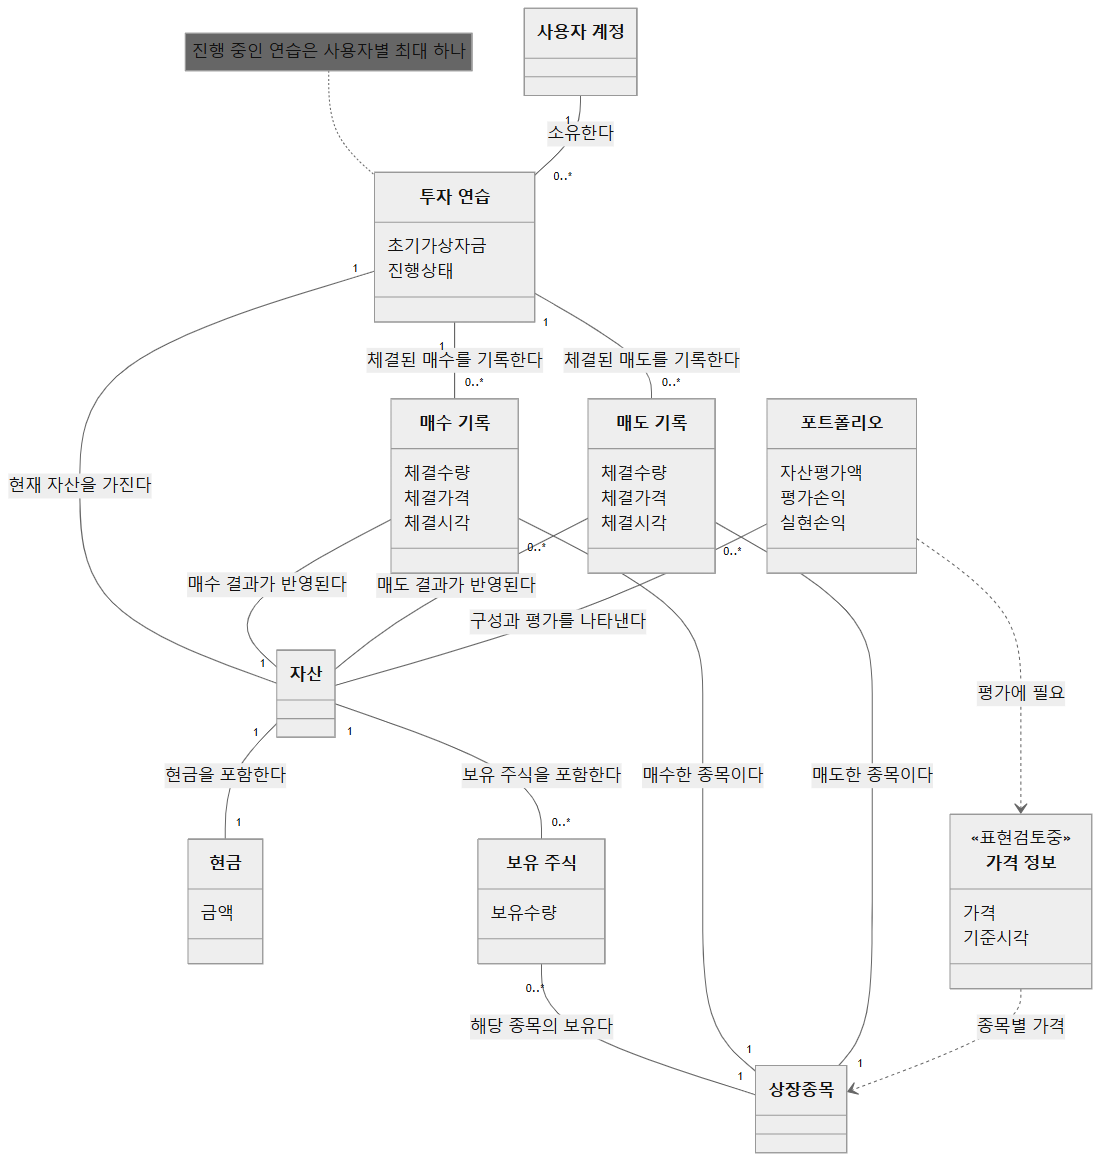
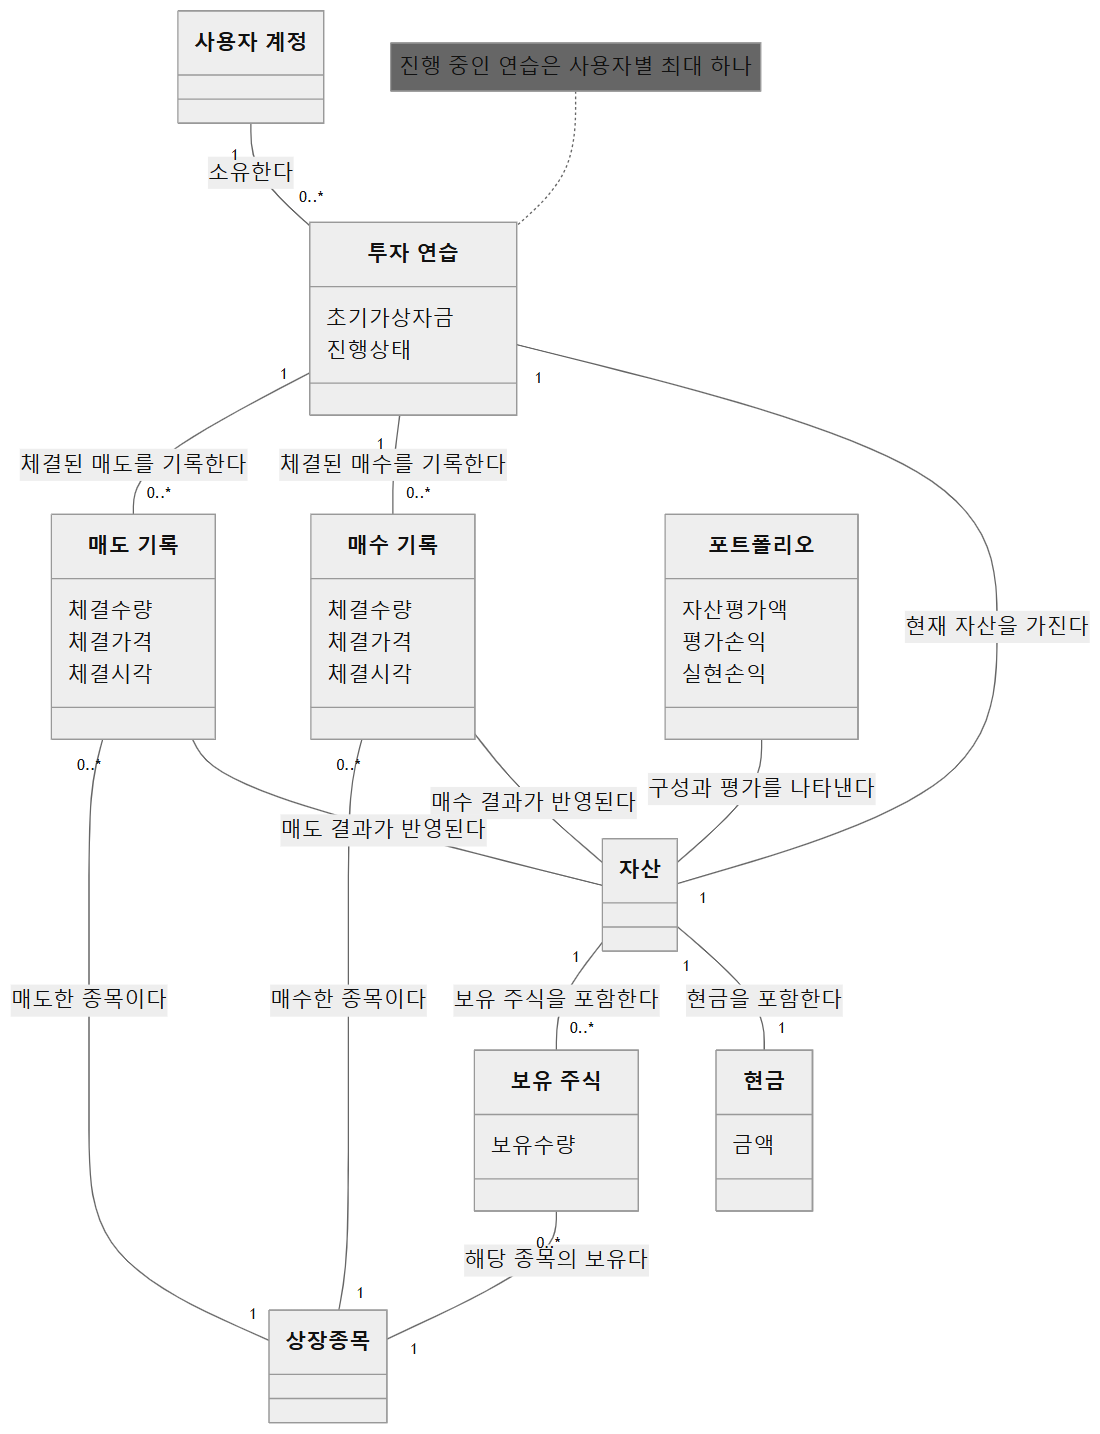
docs: defer price lookup roles to collaboration design

diff --git a/design/paper_trading_domain_model.md b/design/paper_trading_domain_model.md
@@ -4,7 +4,7 @@
 - 이슈: [#44](https://github.com/PhilPark-geosr/stock-agent/issues/44)
 - 근거: [유스케이스 개요](paper_trading_requirements.md), [도메인 검토 내용](paper_trading_elaboration_notes.md), [용어집](../CONTEXT.md)
 
-업무 개념과 관계를 표현한 그림이다. 메서드·내부 식별자·서비스·저장소·DB 구조를 정하는 상세 클래스 설계가 아니다. 실선은 현재 정리한 관계이며, 가격 정보 노드와 점선 관계는 필요성은 확인했지만 표현 방식은 아직 검토 중인 부분이다.
+업무 개념과 관계를 표현한 그림이다. 메서드·내부 식별자·서비스·저장소·DB 구조를 정하는 상세 클래스 설계가 아니다. 가격 조회기와 거래 처리 같은 협력 역할은 이 그림에 두지 않는다.
 
 ## 다이어그램
 
@@ -42,11 +42,6 @@ classDiagram
         평가손익
         실현손익
     }
-    class Price["가격 정보"] {
-        <<표현검토중>>
-        가격
-        기준시각
-    }
 
     Account "1" -- "0..*" Practice : 소유한다
     Practice "1" -- "1" Assets : 현재 자산을 가진다
@@ -60,8 +55,6 @@ classDiagram
     Buy "0..*" -- "1" Security : 매수한 종목이다
     Sell "0..*" -- "1" Security : 매도한 종목이다
     Portfolio -- Assets : 구성과 평가를 나타낸다
-    Portfolio ..> Price : 평가에 필요
-    Price ..> Security : 종목별 가격
 
     note for Practice "진행 중인 연습은 사용자별 최대 하나"
 ```
@@ -77,21 +70,27 @@ classDiagram
 - **상장종목:** 거래·보유가 어느 종목에 대한 것인지 나타낸다. 종목 정체성은 기존 용어집의 상장종목 정의를 따른다.
 - **포트폴리오:** 동일한 자산의 구성과 평가 결과를 나타낸다. 자산과 별도로 현금·보유 주식을 중복 소유하지 않는다. 그림의 평가 항목은 관찰할 업무 정보이며 저장 필드로 확정한 것이 아니다.
 
+## 평가와 가격 조회의 구분
+
+포트폴리오를 확인하는 시점에 종목별 가격을 조회하여 자산을 평가하는 방향으로 정리한다. 조회한 값을 사용한다고 해서 독립적인 ‘가격 정보’ 도메인 모델을 반드시 만들 필요는 없으므로 이번 그림에서는 제외한다. 가격을 어디서 어떻게 조회할지, 가격 조회기와 평가 역할을 누가 조율할지는 후속 협력 설계에서 구체화한다.
+
+보유 주식의 평가에 사용한 가격과 해당 가격의 기준 시각을 확인하는 UC-PT-05의 요구는 유지한다. 조회 시각과 시세 자체의 기준 시각은 다를 수 있다. 종목별 평가 가격·기준 시각의 표현 형태와 보관 방식은 아직 정하지 않는다. 종료된 연습은 새로 조회한 가격으로 재평가하지 않고 종료 당시 결과를 유지한다.
+
 ## 유스케이스·요구사항 추적
 
 | 대상 | 관련 개념·관계 |
 | --- | --- |
 | UC-PT-01, FR-PT-016·017·020 | 사용자 계정·투자 연습·초기 자금·자산, 동시에 진행하는 연습의 제한 |
 | UC-PT-02·03, FR-PT-011·014·015·018·019·025 | 매수 기록·매도 기록·상장종목·현금·보유 주식, 현금과 보유 수량 범위의 매매 및 가격 재확인 |
-| UC-PT-04, FR-PT-022·023·024 | 종목별 현재 가격과 기준 시각이 필요함. 독립적인 가격 정보 개념과 관계의 확정은 후속 논의 |
-| UC-PT-05, FR-PT-015·023·024 및 초안 FR-PT-005·006·008 | 자산·포트폴리오·보유 주식과 평가 가격의 관계 |
+| UC-PT-04, FR-PT-022·023·024 | 가격 조회는 사용자 기능이며 AI 실행과 독립적이다. 가격 조회기의 협력은 후속 설계에서 구체화하며 별도 가격 정보 모델은 두지 않음 |
+| UC-PT-05, FR-PT-015·023·024 및 초안 FR-PT-005·006·008 | 자산·포트폴리오·보유 주식. 조회한 종목별 가격으로 평가하며 사용한 가격·기준 시각 확인 요구 유지 |
 | FR-PT-021 | 종료 시 자동 매도하지 않고 현금·보유 주식·손익을 당시 상태로 보존 |
 
 관심 종목 등록은 매수 허용 조건이며, 보유 주식의 존재 조건이 아니다. 등록을 해제해도 기존 보유분·거래 기록과 가격 조회 대상은 유지한다. 이 그림에서 기존 관심 종목 구독 모델을 새로 정의하지 않는다.
 
 ## 아직 확정하지 않은 부분
 
-- 평가 가격·기준 시각을 독립적인 가격 정보 개념으로 표현할지와 그 상세 관계
+- 가격 조회기와 평가 역할의 협력, 평가에 사용한 종목별 가격·기준 시각의 표현·보관 방식
 - 체결 가격과 평가 가격의 선택 기준·허용 지연, 가격 조회 실패 시 평가 표시
 - 포트폴리오의 구현 형태, 매수·매도 결과의 반영 책임, 자산 상태의 저장·계산 방식
 - 평균 매수가·부분 매도 실현손익의 계산 규칙, 수수료·세금 등 비용
